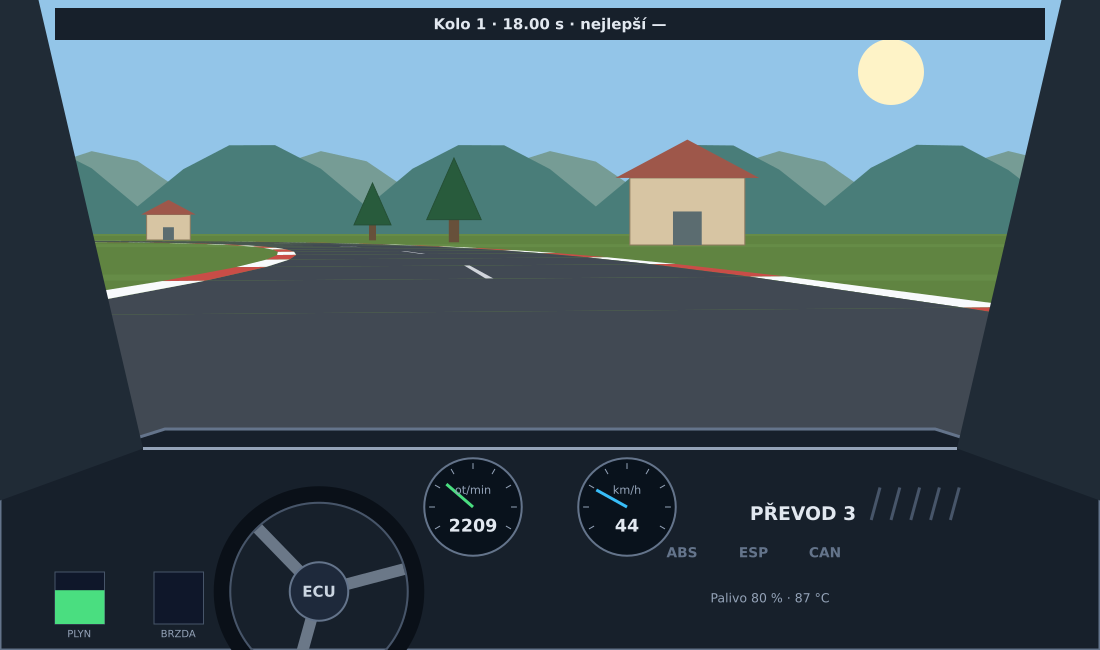
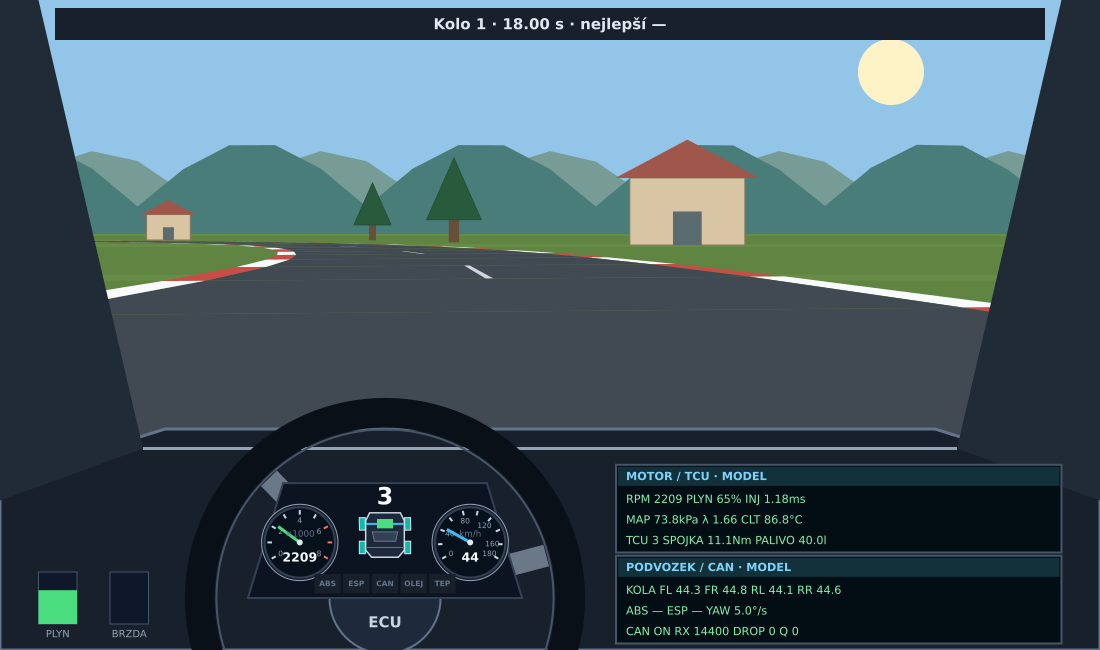
simulace jizdy

diff --git a/simulator/cockpit.py b/simulator/cockpit.py
@@ -7,6 +7,7 @@ Nemění fyziku ani vstupní zařízení; nepoužívá druhý model pohybu auta.
 import math
 
 from racetrack import Circuit
+from vehicle_diagram import symbol_state, wheel_polygon
 
 
 def clip_near(points, near=2.0):
@@ -236,53 +237,8 @@ class CockpitView:
             width * 0.13, height * 0.69, width * 0.87, height * 0.69, fill="#94a3b8", width=3
         )
         v = state.get("vehicle", {})
-        d = v.get("dashboard", {})
-        self.gauge(
-            width * 0.43, height * 0.78, height * 0.075, d.get("rpm"), 7500, "ot/min", "#4ade80"
-        )
-        self.gauge(
-            width * 0.57, height * 0.78, height * 0.075, d.get("speed_kmh"), 180, "km/h", "#38bdf8"
-        )
-        gear = d.get("gear")
-        gear_text = "—" if gear is None else "R" if gear == -1 else "N" if gear == 0 else str(gear)
-        c.create_text(
-            width * 0.73,
-            height * 0.79,
-            text=f"PŘEVOD {gear_text}",
-            fill="#e2e8f0",
-            font=("Sans", 15, "bold"),
-        )
-        lamps = (
-            ("ABS", d.get("abs", False)),
-            ("ESP", d.get("esp", False)),
-            ("CAN", d.get("can_fault", True)),
-        )
-        for i, (label, on) in enumerate(lamps):
-            c.create_text(
-                width * 0.62 + i * width * 0.065,
-                height * 0.85,
-                text=label,
-                fill="#fbbf24" if on else "#64748b",
-                font=("Sans", 11, "bold"),
-            )
-
-        def number(value, unit):
-            return "—" if value is None else f"{value:.0f} {unit}"
-
-        c.create_text(
-            width * 0.70,
-            height * 0.92,
-            text=f"Palivo {number(d.get('fuel_pct'), '%')} · {number(d.get('coolant_c'), '°C')}",
-            fill="#94a3b8",
-            font=("Sans", 10),
-        )
-        for i in range(5):
-            x = width * 0.80 + i * width * 0.018
-            c.create_line(
-                x, height * 0.75, x - width * 0.008, height * 0.80, fill="#475569", width=3
-            )
         # Volant má přímou vazbu na aktuální natočení řízení, ne na směr kamery.
-        cx, cy, r = width * 0.29, height * 0.91, height * 0.15
+        cx, cy, r = width * 0.35, height * 0.92, min(height * 0.285, width * 0.19)
         angle = -math.radians(v.get("steer_deg", 0) * 14)
         c.create_oval(
             cx - r,
@@ -323,16 +279,19 @@ class CockpitView:
             outline="#64748b",
             width=2,
         )
-        c.create_text(cx, cy, text="ECU", fill="#cbd5e1", font=("Sans", 12, "bold"))
+        c.create_text(cx, cy + r * 0.13, text="ECU", fill="#cbd5e1", font=("Sans", 12, "bold"))
+        # Přístroje se kreslí přes paprsky, aby zůstaly čitelné při otáčení volantu.
+        self.instrument_cluster(state, cx, cy, r)
+        self.diagnostic_screens(state, width, height)
         # Malé pedálové ukazatele dovolují rychle ověřit mapování ovladače.
         for i, (label, value, color) in enumerate(
             (("PLYN", state.get("throttle", 0), "#4ade80"), ("BRZDA", v.get("brake", 0), "#fb923c"))
         ):
-            x = width * 0.05 + i * width * 0.09
+            x = width * 0.035 + i * width * 0.065
             c.create_rectangle(
                 x,
                 height * 0.88,
-                x + width * 0.045,
+                x + width * 0.035,
                 height * 0.96,
                 fill="#0f172a",
                 outline="#475569",
@@ -340,13 +299,13 @@ class CockpitView:
             c.create_rectangle(
                 x,
                 height * 0.96 - value * height * 0.08,
-                x + width * 0.045,
+                x + width * 0.035,
                 height * 0.96,
                 fill=color,
                 outline="",
             )
             c.create_text(
-                x + width * 0.022, height * 0.975, text=label, fill="#94a3b8", font=("Sans", 8)
+                x + width * 0.0175, height * 0.975, text=label, fill="#94a3b8", font=("Sans", 8)
             )
         if race:
             best = "—" if race["best_lap_s"] is None else f"{race['best_lap_s']:.2f} s"
@@ -369,34 +328,260 @@ class CockpitView:
                 tags="cockpit:paused",
             )
 
+    def instrument_cluster(self, state, cx, cy, r):
+        """Zmenšený původní štít je celý uvnitř otvoru věnce volantu."""
+        c = self.canvas
+        d = state.get("vehicle", {}).get("dashboard", {})
+        c.create_polygon(
+            cx - r * 0.55,
+            cy - r * 0.62,
+            cx + r * 0.55,
+            cy - r * 0.62,
+            cx + r * 0.74,
+            cy,
+            cx - r * 0.74,
+            cy,
+            fill="#0b1420",
+            outline="#334155",
+            width=2,
+            tags="cockpit:cluster",
+        )
+        self.gauge(cx - r * 0.46, cy - r * 0.30, r * 0.19, d.get("rpm"), 8000, "ot/min", "#4ade80")
+        self.gauge(
+            cx + r * 0.46, cy - r * 0.30, r * 0.19, d.get("speed_kmh"), 180, "km/h", "#38bdf8"
+        )
+        gear = d.get("gear")
+        gear_text = "—" if gear is None else "R" if gear == -1 else "N" if gear == 0 else str(gear)
+        c.create_text(
+            cx,
+            cy - r * 0.55,
+            text=gear_text,
+            fill="#f8fafc",
+            font=("Sans", max(12, round(r * 0.10)), "bold"),
+            tags="cockpit:gear",
+        )
+        self.vehicle_icon(state, cx, cy - r * 0.46, r * 0.36, r * 0.24)
+        lamps = (
+            ("ABS", d.get("abs", False)),
+            ("ESP", d.get("esp", False)),
+            ("CAN", d.get("can_fault", True)),
+            ("OLEJ", d.get("oil_kpa") is not None and d["oil_kpa"] < 60),
+            ("TEP", d.get("coolant_c") is not None and d["coolant_c"] > 110),
+        )
+        for i, (label, on) in enumerate(lamps):
+            x = cx + (i - 2) * r * 0.155
+            c.create_rectangle(
+                x - r * 0.071,
+                cy - r * 0.13,
+                x + r * 0.071,
+                cy - r * 0.025,
+                fill="#713f12" if on else "#17202b",
+                outline="",
+            )
+            c.create_text(
+                x,
+                cy - r * 0.078,
+                text=label,
+                fill="#fbbf24" if on else "#64748b",
+                font=("Sans", max(6, round(r * 0.034)), "bold"),
+                tags="cockpit:lamp",
+            )
+
+    def diagnostic_screens(self, state, width, height):
+        """Dva displeje napravo ukazují interní diagnostiku modelu a stav CAN."""
+        c = self.canvas
+        v = state.get("vehicle", {})
+        sensors = v.get("sensors", {})
+        bus = v.get("can", {})
+
+        def number(value, precision=0):
+            return "—" if value is None else f"{value:.{precision}f}"
+
+        wheels = sensors.get("wheel_speed_kmh", {})
+        motor = [
+            f"RPM {number(state.get('rpm'))}  PLYN {number(state.get('throttle', 0) * 100)}%  INJ {number(state.get('injector_ms'), 2)}ms",
+            f"MAP {number(state.get('map_kpa'), 1)}kPa  λ {number(state.get('lambda_value'), 2)}  CLT {number(sensors.get('coolant_c'), 1)}°C",
+            f"TCU {v.get('gear', '—')}  SPOJKA {number(v.get('engine_load_nm'), 1)}Nm  PALIVO {number(sensors.get('fuel_level_l'), 1)}l",
+        ]
+        chassis = [
+            "KOLA "
+            + "  ".join(f"{key} {number(wheels.get(key), 1)}" for key in ("FL", "FR", "RL", "RR")),
+            f"ABS {'ZÁSAH' if v.get('abs_active') else '—'}  ESP {'ZÁSAH' if v.get('esp_active') else '—'}  YAW {number(sensors.get('yaw_rate_deg_s'), 1)}°/s",
+            f"CAN {'—' if not bus else 'ON' if bus.get('enabled') else 'OFF'}  RX {bus.get('delivered', '—')}  DROP {bus.get('dropped', '—')}  Q {bus.get('queue_depth', '—')}",
+        ]
+        for i, (title, rows) in enumerate(
+            (("MOTOR / TCU · MODEL", motor), ("PODVOZEK / CAN · MODEL", chassis))
+        ):
+            x, y, w, h = width * 0.56, height * (0.715 + i * 0.14), width * 0.405, height * 0.135
+            c.create_rectangle(
+                x,
+                y,
+                x + w,
+                y + h,
+                fill="#030e14",
+                outline="#475569",
+                width=2,
+                tags="cockpit:diagnostic",
+            )
+            c.create_rectangle(x + 2, y + 2, x + w - 2, y + h * 0.24, fill="#12313a", outline="")
+            font = max(6, min(10, round(w / 48)))
+            c.create_text(
+                x + 10,
+                y + h * 0.13,
+                text=title,
+                anchor="w",
+                fill="#7dd3fc",
+                font=("Sans", font, "bold"),
+            )
+            for row, line in enumerate(rows):
+                c.create_text(
+                    x + 10,
+                    y + h * (0.39 + row * 0.235),
+                    text=line,
+                    anchor="w",
+                    fill="#86efac",
+                    font=("Monospace", font),
+                    tags="cockpit:diagnostic-value",
+                )
+
+    def vehicle_icon(self, state, cx, top, width, height):
+        """Půdorys s motorem, pohonem a stavy kol ze stejných CAN dat jako budíky."""
+        c = self.canvas
+        data = symbol_state(state)
+        c.create_polygon(
+            cx - width * 0.23,
+            top,
+            cx + width * 0.23,
+            top,
+            cx + width * 0.29,
+            top + height * 0.18,
+            cx + width * 0.29,
+            top + height * 0.84,
+            cx + width * 0.20,
+            top + height,
+            cx - width * 0.20,
+            top + height,
+            cx - width * 0.29,
+            top + height * 0.84,
+            cx - width * 0.29,
+            top + height * 0.18,
+            fill="#1e293b",
+            outline="#cbd5e1",
+            width=1.5,
+            tags="cockpit:car",
+        )
+        c.create_line(
+            cx - width * 0.35,
+            top + height * 0.25,
+            cx + width * 0.35,
+            top + height * 0.25,
+            fill="#38bdf8" if not data["can_fault"] else "#64748b",
+            width=2,
+        )
+        c.create_line(
+            cx - width * 0.35,
+            top + height * 0.78,
+            cx + width * 0.35,
+            top + height * 0.78,
+            fill="#64748b",
+            width=1,
+        )
+        rpm = state.get("vehicle", {}).get("dashboard", {}).get("rpm")
+        engine_color = "#64748b" if rpm is None else "#4ade80" if rpm > 300 else "#f59e0b"
+        c.create_rectangle(
+            cx - width * 0.12,
+            top + height * 0.14,
+            cx + width * 0.12,
+            top + height * 0.35,
+            fill=engine_color,
+            outline="",
+            tags="cockpit:engine",
+        )
+        c.create_polygon(
+            cx - width * 0.19,
+            top + height * 0.43,
+            cx + width * 0.19,
+            top + height * 0.43,
+            cx + width * 0.16,
+            top + height * 0.64,
+            cx - width * 0.16,
+            top + height * 0.64,
+            fill="#334155",
+            outline="#64748b",
+        )
+        for wheel, side, y in (
+            ("FL", -1, 0.25),
+            ("FR", 1, 0.25),
+            ("RL", -1, 0.78),
+            ("RR", 1, 0.78),
+        ):
+            angle = (data["steer_deg"] or 0) if wheel.startswith("F") else 0
+            c.create_polygon(
+                *wheel_polygon(
+                    cx + side * width * 0.34, top + height * y, angle, width * 0.045, height * 0.14
+                ),
+                fill=data["wheels"][wheel]["color"],
+                outline="#e2e8f0",
+                tags="cockpit:car-" + wheel,
+            )
+
     def gauge(self, cx, cy, r, value, maximum, label, color):
         c = self.canvas
-        c.create_oval(cx - r, cy - r, cx + r, cy + r, fill="#09121c", outline="#64748b", width=2)
-        for i in range(9):
-            angle = math.radians(210 - i * 30)
+        c.create_oval(
+            cx - r - 3,
+            cy - r - 3,
+            cx + r + 3,
+            cy + r + 3,
+            fill="#17202b",
+            outline="#94a3b8",
+            width=1,
+        )
+        c.create_oval(cx - r, cy - r, cx + r, cy + r, fill="#07111c", outline="#334155", width=2)
+        divisions = 8 if label == "ot/min" else 9
+        for i in range(divisions + 1):
+            angle = math.radians(210 - i * 240 / divisions)
+            tick_color = "#f87171" if label == "ot/min" and i >= 6 else "#cbd5e1"
             c.create_line(
-                cx + math.cos(angle) * r * 0.78,
-                cy - math.sin(angle) * r * 0.78,
-                cx + math.cos(angle) * r * 0.9,
-                cy - math.sin(angle) * r * 0.9,
+                cx + math.cos(angle) * r * 0.79,
+                cy - math.sin(angle) * r * 0.79,
+                cx + math.cos(angle) * r * 0.92,
+                cy - math.sin(angle) * r * 0.92,
+                fill=tick_color,
+                width=2,
+            )
+            tick = i * maximum / divisions
+            text = f"{tick / 1000:g}" if label == "ot/min" else str(round(tick))
+            if i % 2 and i != divisions:
+                continue
+            c.create_text(
+                cx + math.cos(angle) * r * 0.63,
+                cy - math.sin(angle) * r * 0.63,
+                text=text,
                 fill="#94a3b8",
-                width=1,
+                font=("Sans", max(6, round(r * 0.12))),
             )
         if value is not None:
             angle = math.radians(210 - max(0, min(1, value / maximum)) * 240)
             c.create_line(
                 cx,
                 cy,
-                cx + math.cos(angle) * r * 0.72,
-                cy - math.sin(angle) * r * 0.72,
+                cx + math.cos(angle) * r * 0.76,
+                cy - math.sin(angle) * r * 0.76,
                 fill=color,
                 width=3,
             )
+        c.create_oval(cx - 3, cy - 3, cx + 3, cy + 3, fill="#e2e8f0", outline="")
         c.create_text(
             cx,
-            cy + r * 0.38,
+            cy + r * 0.42,
             text="—" if value is None else f"{value:.0f}",
-            fill="#e2e8f0",
-            font=("Sans", max(9, int(r * 0.29)), "bold"),
+            fill="#f8fafc",
+            font=("Sans", max(10, round(r * 0.29)), "bold"),
         )
-        c.create_text(cx, cy - r * 0.35, text=label, fill="#94a3b8", font=("Sans", 9))
+        c.create_text(
+            cx,
+            cy - r * 0.25,
+            text="×1000" if label == "ot/min" else "km/h",
+            fill="#64748b",
+            font=("Sans", max(7, round(r * 0.13))),
+        )

diff --git a/simulator/docs/jizda.md b/simulator/docs/jizda.md
@@ -37,7 +37,14 @@ souřadnic, na kterých se pohybuje skutečný model auta; zatáčení tedy měn
 Stromy a domky mají pevná místa vedle okruhu, ale zatím nemají kolize. Kopce
 jsou dekorace na horizontu, silnice je rovinná.
 
-V záběru je čelní sklo s A-sloupky, volant a palubní deska. Volant se otáčí
+V záběru je čelní sklo s A-sloupky, volant a palubní deska. Přístrojový štít
+je zmenšený uvnitř většího věnce volantu. Má vlevo číslovaný otáčkoměr,
+vpravo rychloměr a mezi nimi symbol vozu
+s motorem a barevnými stavy kol. Nad symbolem je rychlostní stupeň, pod ním
+kontrolky ABS, ESP, CAN, oleje a teploty. Napravo od volantu jsou dva diagnostické
+displeje: motor/TCU (otáčky, plyn, vstřik, MAP, lambda, teplota, spojka a palivo)
+a podvozek/CAN (rychlosti kol, zásahy ABS/ESP, stáčení a počty zpráv). Diagnostika
+čte interní stav modelu; budíky a středový symbol nadále používají doručená CAN data. Volant se otáčí
 podle úhlu předních kol s ilustračním převodem 14:1. Otáčkoměr, rychloměr,
 převod, ABS/ESP, CAN, palivo a teplota používají současná data palubní desky.
 Dva malé sloupce ukazují skutečný požadavek plynu a brzdy, aby šlo ověřit
